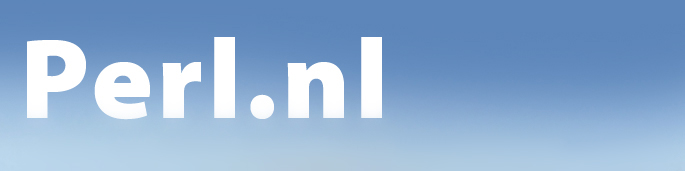
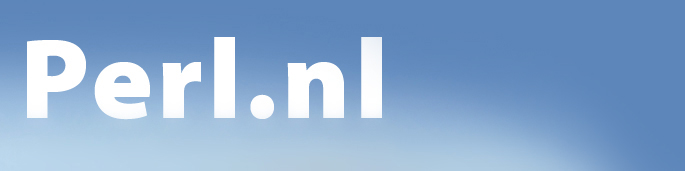
Nieuwe lucht en CSS. Site iets breder.

Changed region(s): [[0.7971, 0.5263, 1.0, 1.0]]

diff --git a/public/css/all.css b/public/css/all.css
@@ -10,10 +10,10 @@ p, ul { line-height: 150%; }
 ul { padding: 0px 0px 0px 15px; }
 a:link { color: #048; }
 a:visited { color: #E00; }
-#main { height: 1%; width: 922px; margin: 5px auto; }
-#kopij { float: right; color: #000; width: 685px; min-height: 600px; background-color: #FFF; }
-#header { background: #B2C8DD url(http://nl.pm.org/img/perlnlheader.jpg) no-repeat; height: 171px; }
-#headertitle { position: relative; top: 135px; left: 25px; }
+#main { height: 1%; width: 992px; margin: 5px auto; }
+#kopij { float: right; color: #000; width: 755px; min-height: 600px; background-color: #FFF; }
+#header { background: #5D86BA url(http://nl.pm.org/img/perlnlheader.jpg) no-repeat; height: 171px; }
+#headertitle { position: relative; top: 135px; left: 25px; width: 700px; }
 #kopijbody { float: left; width: 420px; padding: 20px 25px; background-color: #E4E4E4; min-height: 389px; }
 #sidebar { margin-left: 470px; padding: 20px 10px; min-height: 200px; }
 #sidebar h2 { color: #E00; }
